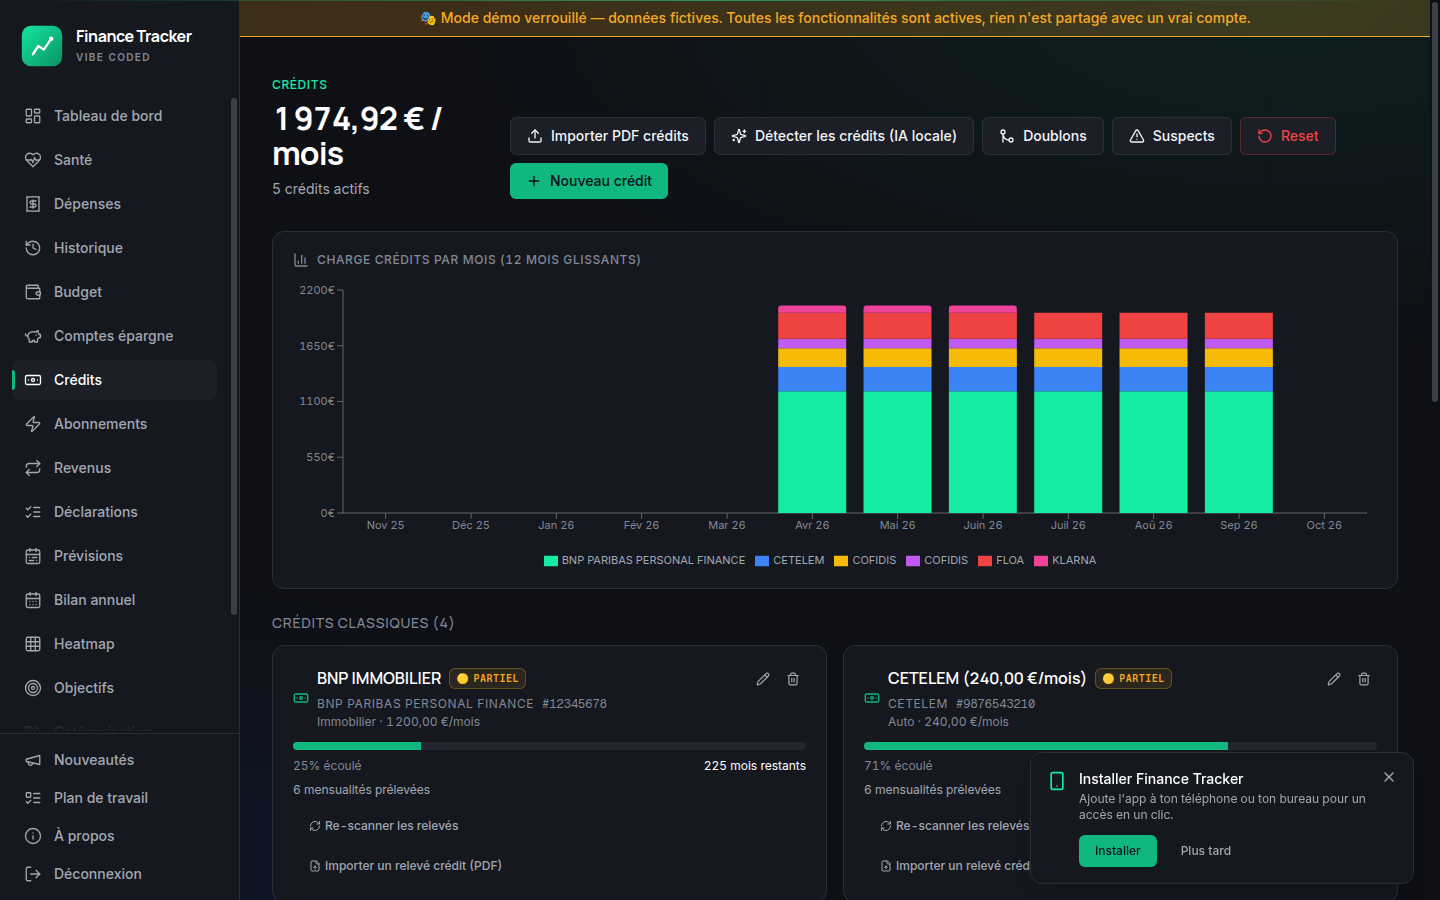
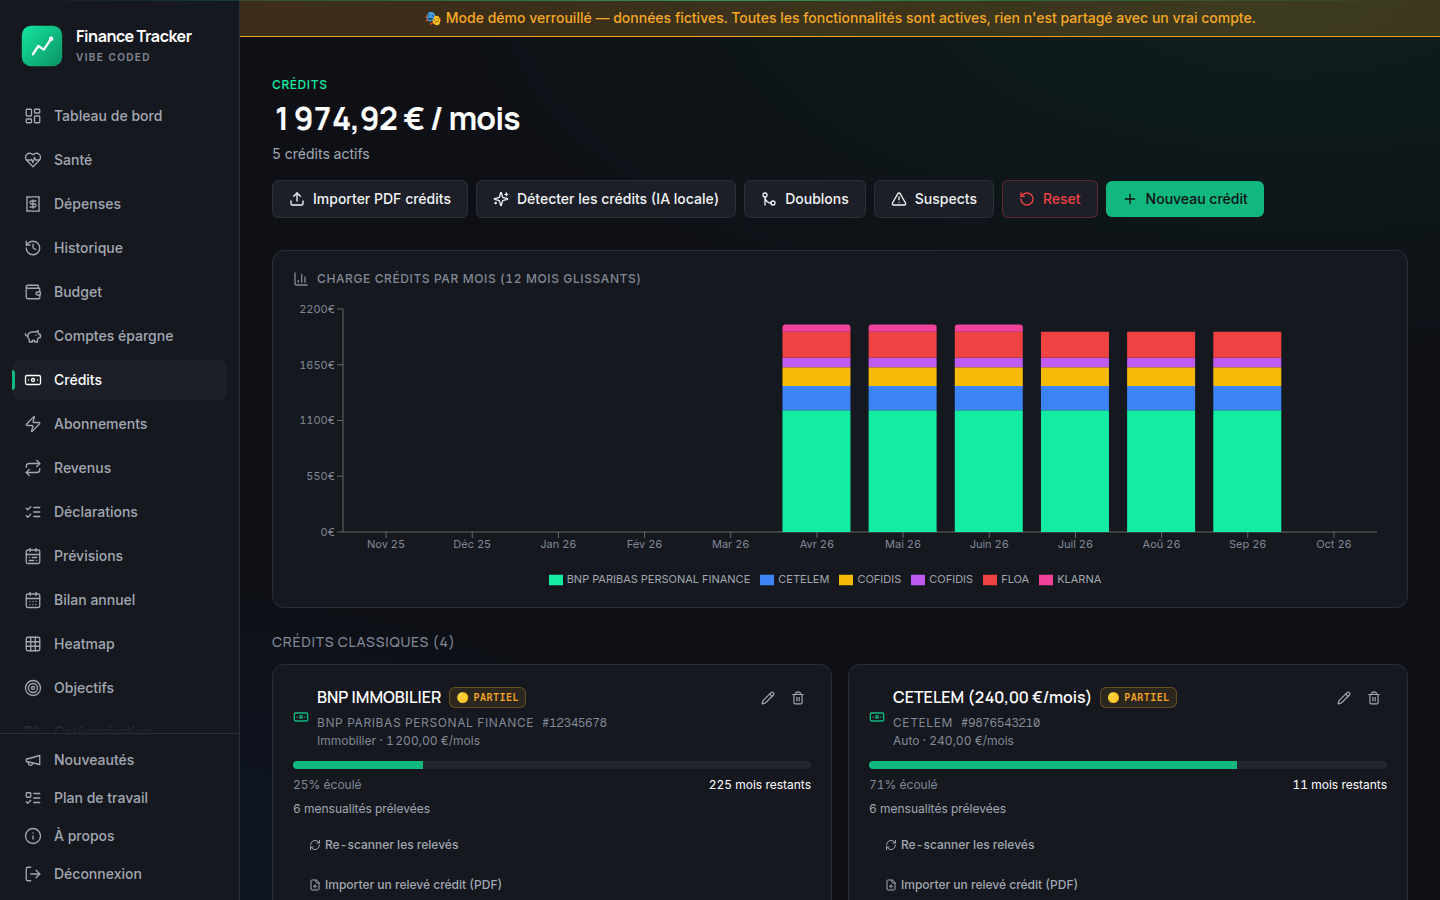
docs(L96): Nouveauté Crédits — texte et captures 1440/390 px conformes au rendu (titre sur une ligne, boutons dessous)

diff --git a/frontend/public/nouveautes-data/index.html b/frontend/public/nouveautes-data/index.html
@@ -20,14 +20,14 @@ code { font-size: 13px; padding: 1px 4px; border-radius: 4px; background: var(--
 </style>
 </head>
 <body>
-<header><h1>finance-tracker — nouveautés</h1><p class="meta">Généré le 2026-10-21 16:23 par cadence</p></header>
+<header><h1>finance-tracker — nouveautés</h1><p class="meta">Généré le 2026-10-21 16:31 par cadence</p></header>
 <main>
 <article id="2026-10-21-credits-les-boutons-du-haut-de-page-tiennent-sur-un-telephon">
   <h2>Crédits : les boutons du haut de page tiennent sur un téléphone</h2>
   <p class="meta"><time datetime="2026-10-21">2026-10-21</time> · L96</p>
-  <p>Sur la page Crédits, les six boutons du haut de page (Importer PDF crédits, Détecter les crédits, Doublons, Suspects, Reset, Nouveau crédit) passent maintenant à la ligne sur un téléphone. Avant, ils restaient sur une seule rangée trop large : la page débordait sur la droite et il fallait la faire défiler horizontalement. Tous les boutons sont visibles sans quitter l'écran des yeux ; sur ordinateur, rien ne change.</p>
-  <a href="captures/credits-actions-390.png"><img src="captures/credits-actions-390.png" alt="Page Crédits sur téléphone : les six boutons d'action (Importer PDF crédits, Détecter les crédits, Doublons, Suspects, Reset, Nouveau crédit) sont répartis sur plusieurs lignes sous le total mensuel" loading="lazy"></a>
-  <a href="captures/credits-actions-1440.png"><img src="captures/credits-actions-1440.png" alt="Page Crédits sur ordinateur : les six boutons d'action alignés à droite du total mensuel" loading="lazy"></a>
+  <p>Sur la page Crédits, les six boutons du haut de page (Importer PDF crédits, Détecter les crédits, Doublons, Suspects, Reset, Nouveau crédit) passent maintenant à la ligne sur un téléphone. Avant, ils restaient sur une seule rangée trop large : la page débordait sur la droite et il fallait la faire défiler horizontalement. Tous les boutons sont visibles sans quitter l'écran des yeux. Sur ordinateur, le total mensuel reste sur une seule ligne et les six boutons se rangent sur une seule ligne juste en dessous, au lieu d'être serrés à droite du total qui se coupait en deux. Les trois boutons d'une suggestion de crédit passent eux aussi à la ligne sur un très petit écran.</p>
+  <a href="captures/credits-actions-390.png"><img src="captures/credits-actions-390.png" alt="Page Crédits sur téléphone : le total mensuel tient sur une ligne et les six boutons d'action (Importer PDF crédits, Détecter les crédits, Doublons, Suspects, Reset, Nouveau crédit) sont répartis sur plusieurs lignes dessous" loading="lazy"></a>
+  <a href="captures/credits-actions-1440.png"><img src="captures/credits-actions-1440.png" alt="Page Crédits sur ordinateur : le total mensuel sur une ligne, les six boutons d'action alignés sur une seule ligne juste en dessous" loading="lazy"></a>
 </article>
 <article id="2026-10-21-previsions-le-halo-sombre-de-la-courbe-solde-se-dessine-deca">
   <h2>Prévisions : la courbe du solde se dessine d'un seul trait</h2>

diff --git a/docs/nouveautes/2026-10-21-credits-les-boutons-du-haut-de-page-tiennent-sur-un-telephon.md b/docs/nouveautes/2026-10-21-credits-les-boutons-du-haut-de-page-tiennent-sur-un-telephon.md
@@ -4,7 +4,7 @@ date: 2026-10-21
 created: 2026-10-21T16:23+02:00
 lots: [L96]
 captures:
-  - { file: captures/credits-actions-390.png, alt: "Page Crédits sur téléphone : les six boutons d'action (Importer PDF crédits, Détecter les crédits, Doublons, Suspects, Reset, Nouveau crédit) sont répartis sur plusieurs lignes sous le total mensuel" }
-  - { file: captures/credits-actions-1440.png, alt: "Page Crédits sur ordinateur : les six boutons d'action alignés à droite du total mensuel" }
+  - { file: captures/credits-actions-390.png, alt: "Page Crédits sur téléphone : le total mensuel tient sur une ligne et les six boutons d'action (Importer PDF crédits, Détecter les crédits, Doublons, Suspects, Reset, Nouveau crédit) sont répartis sur plusieurs lignes dessous" }
+  - { file: captures/credits-actions-1440.png, alt: "Page Crédits sur ordinateur : le total mensuel sur une ligne, les six boutons d'action alignés sur une seule ligne juste en dessous" }
 ---
-Sur la page Crédits, les six boutons du haut de page (Importer PDF crédits, Détecter les crédits, Doublons, Suspects, Reset, Nouveau crédit) passent maintenant à la ligne sur un téléphone. Avant, ils restaient sur une seule rangée trop large : la page débordait sur la droite et il fallait la faire défiler horizontalement. Tous les boutons sont visibles sans quitter l'écran des yeux ; sur ordinateur, rien ne change.
+Sur la page Crédits, les six boutons du haut de page (Importer PDF crédits, Détecter les crédits, Doublons, Suspects, Reset, Nouveau crédit) passent maintenant à la ligne sur un téléphone. Avant, ils restaient sur une seule rangée trop large : la page débordait sur la droite et il fallait la faire défiler horizontalement. Tous les boutons sont visibles sans quitter l'écran des yeux. Sur ordinateur, le total mensuel reste sur une seule ligne et les six boutons se rangent sur une seule ligne juste en dessous, au lieu d'être serrés à droite du total qui se coupait en deux. Les trois boutons d'une suggestion de crédit passent eux aussi à la ligne sur un très petit écran.
